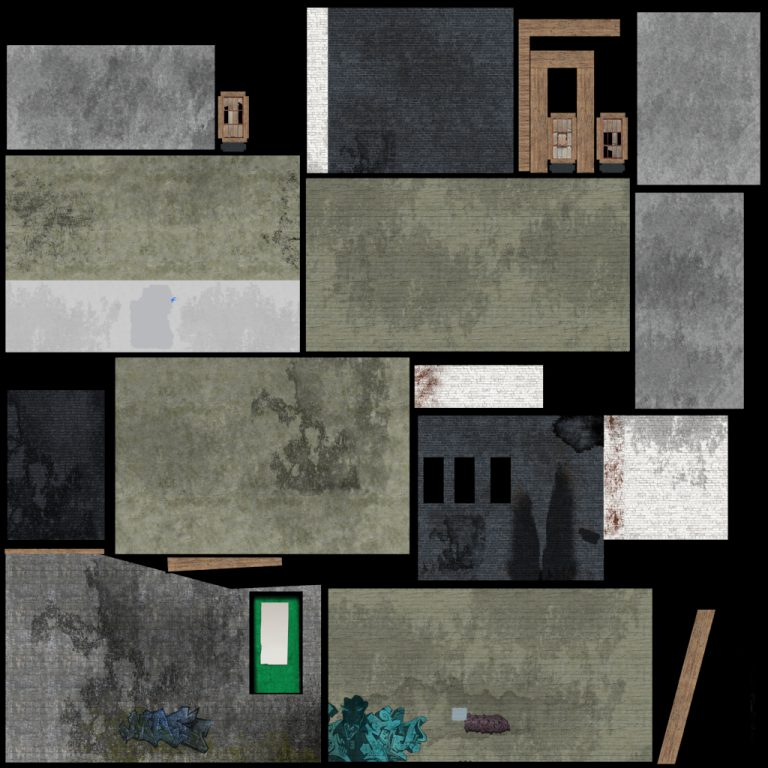
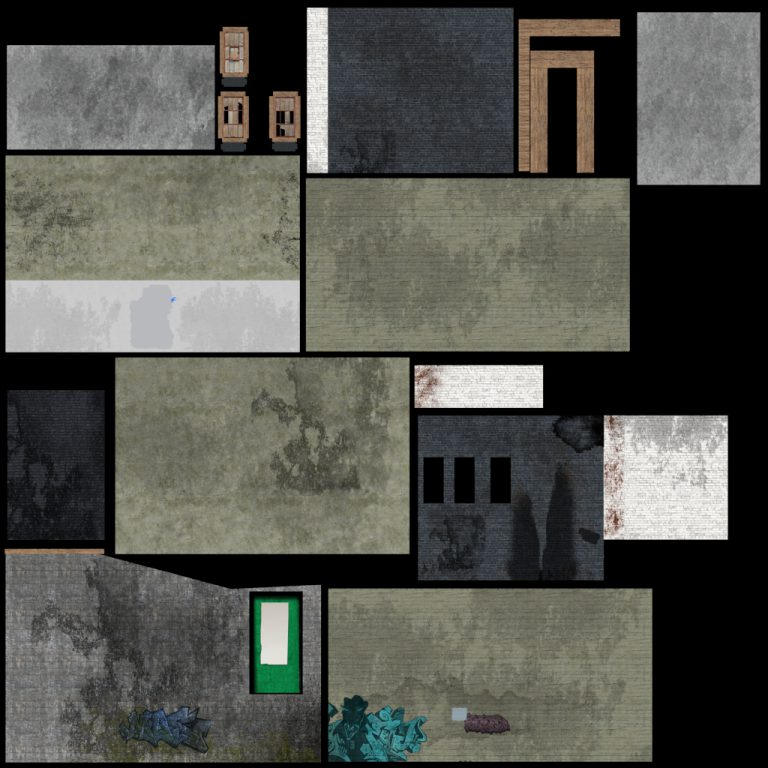
add latest image

diff --git a/visuals-project/index.html b/visuals-project/index.html
@@ -138,7 +138,7 @@ window._wpemojiSettings = {"baseUrl":"https:\/\/s.w.org\/images\/core\/emoji\/16
 <h3>My Role</h3>
 <p>For this project, I was responsible for creating the entire scene with Unity. I created all of the 3D models, except the character avatar, in Maya 2014. I UV mapped all of the models, and I used GIMP to create custom diffuse texture for all of them. I sourced many of the textures from http://www.textures.com/. I used to custom brushes to apply detail to each of the textures.</p>
 <h3>Gallery</h3>
-<div class="grid"><div class="grid-sizer"><div class="gutter-sizer"><div class="grid-item"><a href="/wp-content/uploads/2025/11/garbage_bins_in_an_alley_by_celero38.jpg" data-lightbox="gallery-1" data-title=""><img decoding="async" width="768" height="768" src="/wp-content/uploads/2025/11/garbage_bins_in_an_alley_by_celero38-768x768.jpg" class="attachment-thumbnail size-thumbnail" alt="" style="width: 100%; height: auto;" srcset="/wp-content/uploads/2025/11/garbage_bins_in_an_alley_by_celero38-768x768.jpg 768w, /wp-content/uploads/2025/11/garbage_bins_in_an_alley_by_celero38.jpg 900w" sizes="(max-width: 768px) 100vw, 768px"></a></div><div class="grid-item"><a href="/wp-content/uploads/2017/01/game-design-visuals-scene-alleyway1.jpg" data-lightbox="gallery-1" data-title=""><img decoding="async" width="768" height="768" src="/wp-content/uploads/2017/01/game-design-visuals-scene-alleyway1-768x768.jpg" class="attachment-thumbnail size-thumbnail" alt="" style="width: 100%; height: auto;" srcset="/wp-content/uploads/2017/01/game-design-visuals-scene-alleyway1-768x768.jpg 768w, /wp-content/uploads/2017/01/game-design-visuals-scene-alleyway1-512x512.jpg 512w, /wp-content/uploads/2017/01/game-design-visuals-scene-alleyway1-150x150.jpg 150w" sizes="(max-width: 768px) 100vw, 768px"></a></div><div class="grid-item"><a href="/wp-content/uploads/2017/01/game-design-visuals-scene-alleyway2.jpg" data-lightbox="gallery-1" data-title=""><img loading="lazy" decoding="async" width="768" height="768" src="/wp-content/uploads/2017/01/game-design-visuals-scene-alleyway2-768x768.jpg" class="attachment-thumbnail size-thumbnail" alt="" style="width: 100%; height: auto;" srcset="/wp-content/uploads/2017/01/game-design-visuals-scene-alleyway2-768x768.jpg 768w, /wp-content/uploads/2017/01/game-design-visuals-scene-alleyway2-512x512.jpg 512w, /wp-content/uploads/2017/01/game-design-visuals-scene-alleyway2-150x150.jpg 150w" sizes="auto, (max-width: 768px) 100vw, 768px"></a></div><div class="grid-item"><a href="/wp-content/uploads/2017/01/game-design-visuals-scene-alleyway3.jpg" data-lightbox="gallery-1" data-title=""><img loading="lazy" decoding="async" width="768" height="768" src="/wp-content/uploads/2017/01/game-design-visuals-scene-alleyway3-768x768.jpg" class="attachment-thumbnail size-thumbnail" alt="" style="width: 100%; height: auto;" srcset="/wp-content/uploads/2017/01/game-design-visuals-scene-alleyway3-768x768.jpg 768w, /wp-content/uploads/2017/01/game-design-visuals-scene-alleyway3-512x512.jpg 512w, /wp-content/uploads/2017/01/game-design-visuals-scene-alleyway3-150x150.jpg 150w" sizes="auto, (max-width: 768px) 100vw, 768px"></a></div><div class="grid-item"><a href="/wp-content/uploads/2017/01/game-design-visuals-scene-alleyway4.jpg" data-lightbox="gallery-1" data-title=""><img loading="lazy" decoding="async" width="768" height="768" src="/wp-content/uploads/2017/01/game-design-visuals-scene-alleyway4-768x768.jpg" class="attachment-thumbnail size-thumbnail" alt="" style="width: 100%; height: auto;" srcset="/wp-content/uploads/2017/01/game-design-visuals-scene-alleyway4-768x768.jpg 768w, /wp-content/uploads/2017/01/game-design-visuals-scene-alleyway4-512x512.jpg 512w, /wp-content/uploads/2017/01/game-design-visuals-scene-alleyway4-150x150.jpg 150w" sizes="auto, (max-width: 768px) 100vw, 768px"></a></div><div class="grid-item"><a href="/wp-content/uploads/2017/01/game-design-visuals-scene-alleyway5.jpg" data-lightbox="gallery-1" data-title=""><img loading="lazy" decoding="async" width="768" height="768" src="/wp-content/uploads/2017/01/game-design-visuals-scene-alleyway5-768x768.jpg" class="attachment-thumbnail size-thumbnail" alt="" style="width: 100%; height: auto;" srcset="/wp-content/uploads/2017/01/game-design-visuals-scene-alleyway5-768x768.jpg 768w, /wp-content/uploads/2017/01/game-design-visuals-scene-alleyway5-512x512.jpg 512w, /wp-content/uploads/2017/01/game-design-visuals-scene-alleyway5-150x150.jpg 150w" sizes="auto, (max-width: 768px) 100vw, 768px"></a></div><div class="grid-item"><a href="/wp-content/uploads/2017/01/game-design-visuals-scene-alleyway6.jpg" data-lightbox="gallery-1" data-title=""><img loading="lazy" decoding="async" width="768" height="768" src="/wp-content/uploads/2017/01/game-design-visuals-scene-alleyway6-768x768.jpg" class="attachment-thumbnail size-thumbnail" alt="" style="width: 100%; height: auto;" srcset="/wp-content/uploads/2017/01/game-design-visuals-scene-alleyway6-768x768.jpg 768w, /wp-content/uploads/2017/01/game-design-visuals-scene-alleyway6-512x512.jpg 512w, /wp-content/uploads/2017/01/game-design-visuals-scene-alleyway6-150x150.jpg 150w" sizes="auto, (max-width: 768px) 100vw, 768px"></a></div><div class="grid-item"><a href="/wp-content/uploads/2026/05/Building_Atlas_albedo.jpg" data-lightbox="gallery-1" data-title=""><img loading="lazy" decoding="async" width="768" height="768" src="/wp-content/uploads/2026/05/Building_Atlas_albedo-768x768.jpg" class="attachment-thumbnail size-thumbnail" alt="" style="width: 100%; height: auto;" srcset="/wp-content/uploads/2026/05/Building_Atlas_albedo-768x768.jpg 768w, /wp-content/uploads/2026/05/Building_Atlas_albedo.jpg 1024w" sizes="auto, (max-width: 768px) 100vw, 768px"></a></div><div class="grid-item"><a href="/wp-content/uploads/2025/09/Diffuse_Wedge_1024x1024.jpg" data-lightbox="gallery-1" data-title=""><img loading="lazy" decoding="async" width="768" height="768" src="/wp-content/uploads/2025/09/Diffuse_Wedge_1024x1024-768x768.jpg" class="attachment-thumbnail size-thumbnail" alt="" style="width: 100%; height: auto;" srcset="/wp-content/uploads/2025/09/Diffuse_Wedge_1024x1024-768x768.jpg 768w, /wp-content/uploads/2025/09/Diffuse_Wedge_1024x1024-512x512.jpg 512w, /wp-content/uploads/2025/09/Diffuse_Wedge_1024x1024.jpg 1024w" sizes="auto, (max-width: 768px) 100vw, 768px"></a></div><div class="grid-item"><a href="/wp-content/uploads/2025/09/Diffuse-DumpsterA_2048x2048.jpg" data-lightbox="gallery-1" data-title=""><img loading="lazy" decoding="async" width="768" height="768" src="/wp-content/uploads/2025/09/Diffuse-DumpsterA_2048x2048-768x768.jpg" class="attachment-thumbnail size-thumbnail" alt="" style="width: 100%; height: auto;" srcset="/wp-content/uploads/2025/09/Diffuse-DumpsterA_2048x2048-768x768.jpg 768w, /wp-content/uploads/2025/09/Diffuse-DumpsterA_2048x2048-1024x1024.jpg 1024w, /wp-content/uploads/2025/09/Diffuse-DumpsterA_2048x2048-1536x1536.jpg 1536w, /wp-content/uploads/2025/09/Diffuse-DumpsterA_2048x2048-512x512.jpg 512w, /wp-content/uploads/2025/09/Diffuse-DumpsterA_2048x2048.jpg 2048w" sizes="auto, (max-width: 768px) 100vw, 768px"></a></div><div class="grid-item"><a href="/wp-content/uploads/2025/09/Diffuse-DumpsterA-Alt_2048x2048.jpg" data-lightbox="gallery-1" data-title=""><img loading="lazy" decoding="async" width="768" height="768" src="/wp-content/uploads/2025/09/Diffuse-DumpsterA-Alt_2048x2048-768x768.jpg" class="attachment-thumbnail size-thumbnail" alt="" style="width: 100%; height: auto;" srcset="/wp-content/uploads/2025/09/Diffuse-DumpsterA-Alt_2048x2048-768x768.jpg 768w, /wp-content/uploads/2025/09/Diffuse-DumpsterA-Alt_2048x2048-1024x1024.jpg 1024w, /wp-content/uploads/2025/09/Diffuse-DumpsterA-Alt_2048x2048-1536x1536.jpg 1536w, /wp-content/uploads/2025/09/Diffuse-DumpsterA-Alt_2048x2048-512x512.jpg 512w, /wp-content/uploads/2025/09/Diffuse-DumpsterA-Alt_2048x2048.jpg 2048w" sizes="auto, (max-width: 768px) 100vw, 768px"></a></div><div class="grid-item"><a href="/wp-content/uploads/2026/04/Diffuse-Power-Meter_512x512.png" data-lightbox="gallery-1" data-title=""><img loading="lazy" decoding="async" width="512" height="512" src="/wp-content/uploads/2026/04/Diffuse-Power-Meter_512x512.png" class="attachment-thumbnail size-thumbnail" alt="" style="width: 100%; height: auto;"></a></div></div></div></div>
+<div class="grid"><div class="grid-sizer"><div class="gutter-sizer"><div class="grid-item"><a href="/wp-content/uploads/2025/11/garbage_bins_in_an_alley_by_celero38.jpg" data-lightbox="gallery-1" data-title=""><img decoding="async" width="768" height="768" src="/wp-content/uploads/2025/11/garbage_bins_in_an_alley_by_celero38-768x768.jpg" class="attachment-thumbnail size-thumbnail" alt="" style="width: 100%; height: auto;" srcset="/wp-content/uploads/2025/11/garbage_bins_in_an_alley_by_celero38-768x768.jpg 768w, /wp-content/uploads/2025/11/garbage_bins_in_an_alley_by_celero38.jpg 900w" sizes="(max-width: 768px) 100vw, 768px"></a></div><div class="grid-item"><a href="/wp-content/uploads/2017/01/game-design-visuals-scene-alleyway1.jpg" data-lightbox="gallery-1" data-title=""><img decoding="async" width="768" height="768" src="/wp-content/uploads/2017/01/game-design-visuals-scene-alleyway1-768x768.jpg" class="attachment-thumbnail size-thumbnail" alt="" style="width: 100%; height: auto;" srcset="/wp-content/uploads/2017/01/game-design-visuals-scene-alleyway1-768x768.jpg 768w, /wp-content/uploads/2017/01/game-design-visuals-scene-alleyway1-512x512.jpg 512w, /wp-content/uploads/2017/01/game-design-visuals-scene-alleyway1-150x150.jpg 150w" sizes="(max-width: 768px) 100vw, 768px"></a></div><div class="grid-item"><a href="/wp-content/uploads/2017/01/game-design-visuals-scene-alleyway2.jpg" data-lightbox="gallery-1" data-title=""><img loading="lazy" decoding="async" width="768" height="768" src="/wp-content/uploads/2017/01/game-design-visuals-scene-alleyway2-768x768.jpg" class="attachment-thumbnail size-thumbnail" alt="" style="width: 100%; height: auto;" srcset="/wp-content/uploads/2017/01/game-design-visuals-scene-alleyway2-768x768.jpg 768w, /wp-content/uploads/2017/01/game-design-visuals-scene-alleyway2-512x512.jpg 512w, /wp-content/uploads/2017/01/game-design-visuals-scene-alleyway2-150x150.jpg 150w" sizes="auto, (max-width: 768px) 100vw, 768px"></a></div><div class="grid-item"><a href="/wp-content/uploads/2017/01/game-design-visuals-scene-alleyway3.jpg" data-lightbox="gallery-1" data-title=""><img loading="lazy" decoding="async" width="768" height="768" src="/wp-content/uploads/2017/01/game-design-visuals-scene-alleyway3-768x768.jpg" class="attachment-thumbnail size-thumbnail" alt="" style="width: 100%; height: auto;" srcset="/wp-content/uploads/2017/01/game-design-visuals-scene-alleyway3-768x768.jpg 768w, /wp-content/uploads/2017/01/game-design-visuals-scene-alleyway3-512x512.jpg 512w, /wp-content/uploads/2017/01/game-design-visuals-scene-alleyway3-150x150.jpg 150w" sizes="auto, (max-width: 768px) 100vw, 768px"></a></div><div class="grid-item"><a href="/wp-content/uploads/2017/01/game-design-visuals-scene-alleyway4.jpg" data-lightbox="gallery-1" data-title=""><img loading="lazy" decoding="async" width="768" height="768" src="/wp-content/uploads/2017/01/game-design-visuals-scene-alleyway4-768x768.jpg" class="attachment-thumbnail size-thumbnail" alt="" style="width: 100%; height: auto;" srcset="/wp-content/uploads/2017/01/game-design-visuals-scene-alleyway4-768x768.jpg 768w, /wp-content/uploads/2017/01/game-design-visuals-scene-alleyway4-512x512.jpg 512w, /wp-content/uploads/2017/01/game-design-visuals-scene-alleyway4-150x150.jpg 150w" sizes="auto, (max-width: 768px) 100vw, 768px"></a></div><div class="grid-item"><a href="/wp-content/uploads/2017/01/game-design-visuals-scene-alleyway5.jpg" data-lightbox="gallery-1" data-title=""><img loading="lazy" decoding="async" width="768" height="768" src="/wp-content/uploads/2017/01/game-design-visuals-scene-alleyway5-768x768.jpg" class="attachment-thumbnail size-thumbnail" alt="" style="width: 100%; height: auto;" srcset="/wp-content/uploads/2017/01/game-design-visuals-scene-alleyway5-768x768.jpg 768w, /wp-content/uploads/2017/01/game-design-visuals-scene-alleyway5-512x512.jpg 512w, /wp-content/uploads/2017/01/game-design-visuals-scene-alleyway5-150x150.jpg 150w" sizes="auto, (max-width: 768px) 100vw, 768px"></a></div><div class="grid-item"><a href="/wp-content/uploads/2017/01/game-design-visuals-scene-alleyway6.jpg" data-lightbox="gallery-1" data-title=""><img loading="lazy" decoding="async" width="768" height="768" src="/wp-content/uploads/2017/01/game-design-visuals-scene-alleyway6-768x768.jpg" class="attachment-thumbnail size-thumbnail" alt="" style="width: 100%; height: auto;" srcset="/wp-content/uploads/2017/01/game-design-visuals-scene-alleyway6-768x768.jpg 768w, /wp-content/uploads/2017/01/game-design-visuals-scene-alleyway6-512x512.jpg 512w, /wp-content/uploads/2017/01/game-design-visuals-scene-alleyway6-150x150.jpg 150w" sizes="auto, (max-width: 768px) 100vw, 768px"></a></div><div class="grid-item"><a href="/wp-content/uploads/2026/05/Building_Atlas_albedo_new.jpg" data-lightbox="gallery-1" data-title=""><img loading="lazy" decoding="async" width="768" height="768" src="/wp-content/uploads/2026/05/Building_Atlas_albedo_new-768x768.jpg" class="attachment-thumbnail size-thumbnail" alt="" style="width: 100%; height: auto;" srcset="/wp-content/uploads/2026/05/Building_Atlas_albedo_new-768x768.jpg 768w, /wp-content/uploads/2026/05/Building_Atlas_albedo_new.jpg 1024w" sizes="auto, (max-width: 768px) 100vw, 768px"></a></div><div class="grid-item"><a href="/wp-content/uploads/2025/09/Diffuse_Wedge_1024x1024.jpg" data-lightbox="gallery-1" data-title=""><img loading="lazy" decoding="async" width="768" height="768" src="/wp-content/uploads/2025/09/Diffuse_Wedge_1024x1024-768x768.jpg" class="attachment-thumbnail size-thumbnail" alt="" style="width: 100%; height: auto;" srcset="/wp-content/uploads/2025/09/Diffuse_Wedge_1024x1024-768x768.jpg 768w, /wp-content/uploads/2025/09/Diffuse_Wedge_1024x1024-512x512.jpg 512w, /wp-content/uploads/2025/09/Diffuse_Wedge_1024x1024.jpg 1024w" sizes="auto, (max-width: 768px) 100vw, 768px"></a></div><div class="grid-item"><a href="/wp-content/uploads/2025/09/Diffuse-DumpsterA_2048x2048.jpg" data-lightbox="gallery-1" data-title=""><img loading="lazy" decoding="async" width="768" height="768" src="/wp-content/uploads/2025/09/Diffuse-DumpsterA_2048x2048-768x768.jpg" class="attachment-thumbnail size-thumbnail" alt="" style="width: 100%; height: auto;" srcset="/wp-content/uploads/2025/09/Diffuse-DumpsterA_2048x2048-768x768.jpg 768w, /wp-content/uploads/2025/09/Diffuse-DumpsterA_2048x2048-1024x1024.jpg 1024w, /wp-content/uploads/2025/09/Diffuse-DumpsterA_2048x2048-1536x1536.jpg 1536w, /wp-content/uploads/2025/09/Diffuse-DumpsterA_2048x2048-512x512.jpg 512w, /wp-content/uploads/2025/09/Diffuse-DumpsterA_2048x2048.jpg 2048w" sizes="auto, (max-width: 768px) 100vw, 768px"></a></div><div class="grid-item"><a href="/wp-content/uploads/2025/09/Diffuse-DumpsterA-Alt_2048x2048.jpg" data-lightbox="gallery-1" data-title=""><img loading="lazy" decoding="async" width="768" height="768" src="/wp-content/uploads/2025/09/Diffuse-DumpsterA-Alt_2048x2048-768x768.jpg" class="attachment-thumbnail size-thumbnail" alt="" style="width: 100%; height: auto;" srcset="/wp-content/uploads/2025/09/Diffuse-DumpsterA-Alt_2048x2048-768x768.jpg 768w, /wp-content/uploads/2025/09/Diffuse-DumpsterA-Alt_2048x2048-1024x1024.jpg 1024w, /wp-content/uploads/2025/09/Diffuse-DumpsterA-Alt_2048x2048-1536x1536.jpg 1536w, /wp-content/uploads/2025/09/Diffuse-DumpsterA-Alt_2048x2048-512x512.jpg 512w, /wp-content/uploads/2025/09/Diffuse-DumpsterA-Alt_2048x2048.jpg 2048w" sizes="auto, (max-width: 768px) 100vw, 768px"></a></div><div class="grid-item"><a href="/wp-content/uploads/2026/04/Diffuse-Power-Meter_512x512.png" data-lightbox="gallery-1" data-title=""><img loading="lazy" decoding="async" width="512" height="512" src="/wp-content/uploads/2026/04/Diffuse-Power-Meter_512x512.png" class="attachment-thumbnail size-thumbnail" alt="" style="width: 100%; height: auto;"></a></div></div></div></div>
 		</div>
 	</div>
 